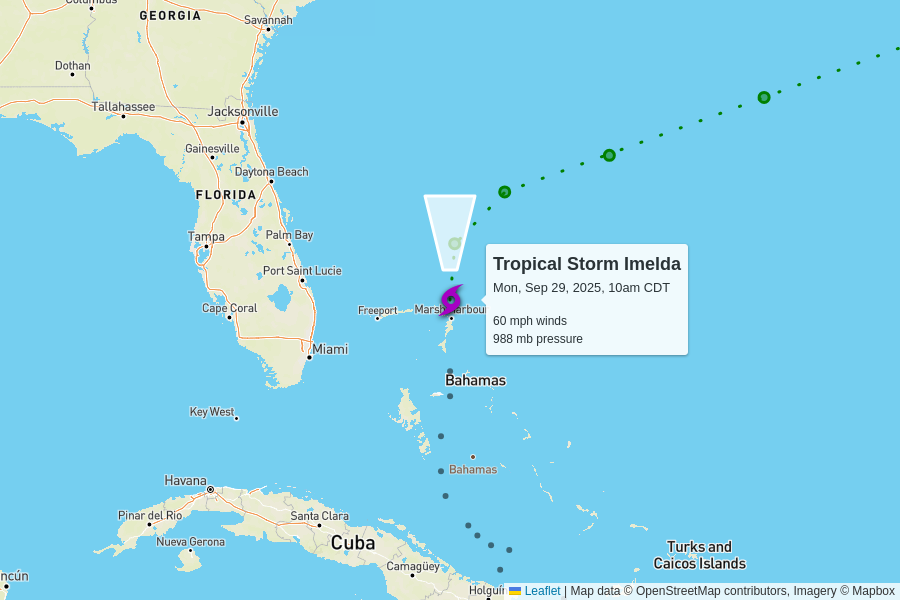
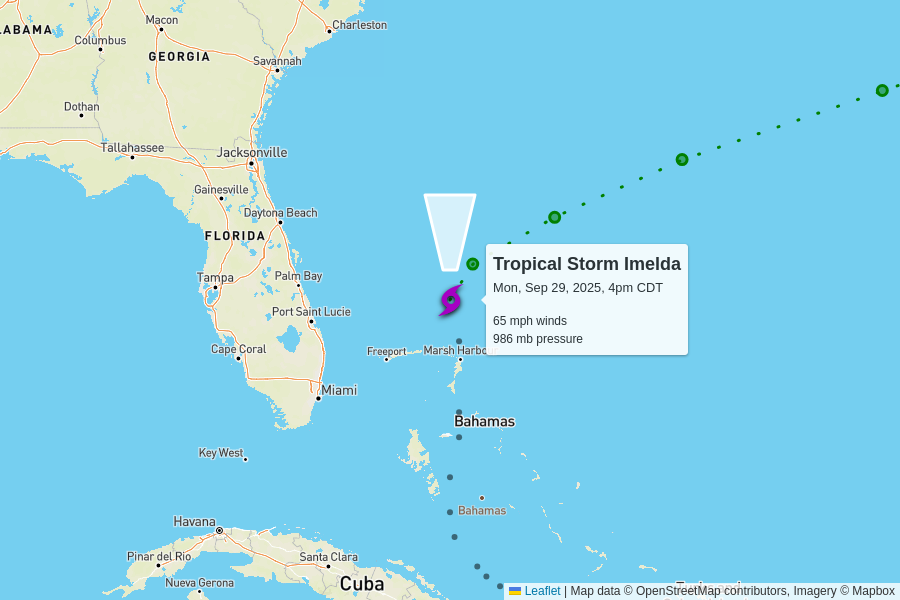
automatic update

diff --git a/docs/index.html b/docs/index.html
@@ -101,54 +101,10 @@
 
     <table>
       <tr>
-        <td colspan="6" class="storm category-4" >
-          <h2>
-            Hurricane Humberto - Category 4
-            <p class="updated">last updated <span data-time>2025-09-29T15:00:00.000Z</span></p>
-          </h2>
-        </td>
-      </tr>
-      
-      <tr>
-        <th class="spacer"></th>
-        <th>wind speed</th>
-        <th>central pressure</th>
-        <th>movement</th>
-        <th>data (CSV)</th>
-        <th>National Hurricane Center</th>
-      </tr>
-      <tr>
-        <td class="spacer"></td>
-        <td>145 mph<br>+15 mph since last update</td>
-        <td>940 mb<br>+7 mb since last update</td>
-        <td>
-          13 mph to the northwest
-          <br/>
-          <span style="display: inline-block; font-size: 1.5em; transform: rotate(325deg);">↑</span>
-        </td>
-        <td><a href="https://raw.githubusercontent.com/mgwalker/atlantic-hurricanes/main/data/csv/AL082025.csv">AL082025.csv</a></td>
-        <td><a href="https://www.nhc.noaa.gov/archive/2025/HUMBERTO.shtml?">NHC advisories</a></td>
-      </tr>
-      <tr id="storm_AL082025" >
-        <td class="spacer">
-        <td colspan="5">
-          <figure>
-            <img src="AL082025.png">
-            <figcaption>
-              Map data &copy; <a href="https://www.openstreetmap.org/copyright">OpenStreetMap</a> contributors,
-              Imagery &copy; <a href="https://www.mapbox.com/">Mapbox</a> |
-              <a href="https://www.mapbox.com/map-feedback/" target="_blank">Improve this map</a>
-            </figcaption>
-          </figure>
-        </td>
-      </tr>
-      
-
-      <tr>
         <td colspan="6" class="storm category-0" >
           <h2>
             Tropical Storm Imelda
-            <p class="updated">last updated <span data-time>2025-09-29T15:00:00.000Z</span></p>
+            <p class="updated">last updated <span data-time>2025-09-29T21:00:00.000Z</span></p>
           </h2>
         </td>
       </tr>
@@ -163,8 +119,8 @@
       </tr>
       <tr>
         <td class="spacer"></td>
-        <td>60 mph<br>+15 mph since last update</td>
-        <td>988 mb<br>-8 mb since last update</td>
+        <td>65 mph<br>+5 mph since last update</td>
+        <td>986 mb<br>-2 mb since last update</td>
         <td>
           9 mph to the north
           <br/>
@@ -178,6 +134,50 @@
         <td colspan="5">
           <figure>
             <img src="AL092025.png">
+            <figcaption>
+              Map data &copy; <a href="https://www.openstreetmap.org/copyright">OpenStreetMap</a> contributors,
+              Imagery &copy; <a href="https://www.mapbox.com/">Mapbox</a> |
+              <a href="https://www.mapbox.com/map-feedback/" target="_blank">Improve this map</a>
+            </figcaption>
+          </figure>
+        </td>
+      </tr>
+      
+
+      <tr>
+        <td colspan="6" class="storm category-4" >
+          <h2>
+            Hurricane Humberto - Category 4
+            <p class="updated">last updated <span data-time>2025-09-29T21:00:00.000Z</span></p>
+          </h2>
+        </td>
+      </tr>
+      
+      <tr>
+        <th class="spacer"></th>
+        <th>wind speed</th>
+        <th>central pressure</th>
+        <th>movement</th>
+        <th>data (CSV)</th>
+        <th>National Hurricane Center</th>
+      </tr>
+      <tr>
+        <td class="spacer"></td>
+        <td>140 mph<br>-5 mph since last update</td>
+        <td>942 mb<br>+2 mb since last update</td>
+        <td>
+          13 mph to the north-northwest
+          <br/>
+          <span style="display: inline-block; font-size: 1.5em; transform: rotate(330deg);">↑</span>
+        </td>
+        <td><a href="https://raw.githubusercontent.com/mgwalker/atlantic-hurricanes/main/data/csv/AL082025.csv">AL082025.csv</a></td>
+        <td><a href="https://www.nhc.noaa.gov/archive/2025/HUMBERTO.shtml?">NHC advisories</a></td>
+      </tr>
+      <tr id="storm_AL082025" >
+        <td class="spacer">
+        <td colspan="5">
+          <figure>
+            <img src="AL082025.png">
             <figcaption>
               Map data &copy; <a href="https://www.openstreetmap.org/copyright">OpenStreetMap</a> contributors,
               Imagery &copy; <a href="https://www.mapbox.com/">Mapbox</a> |
